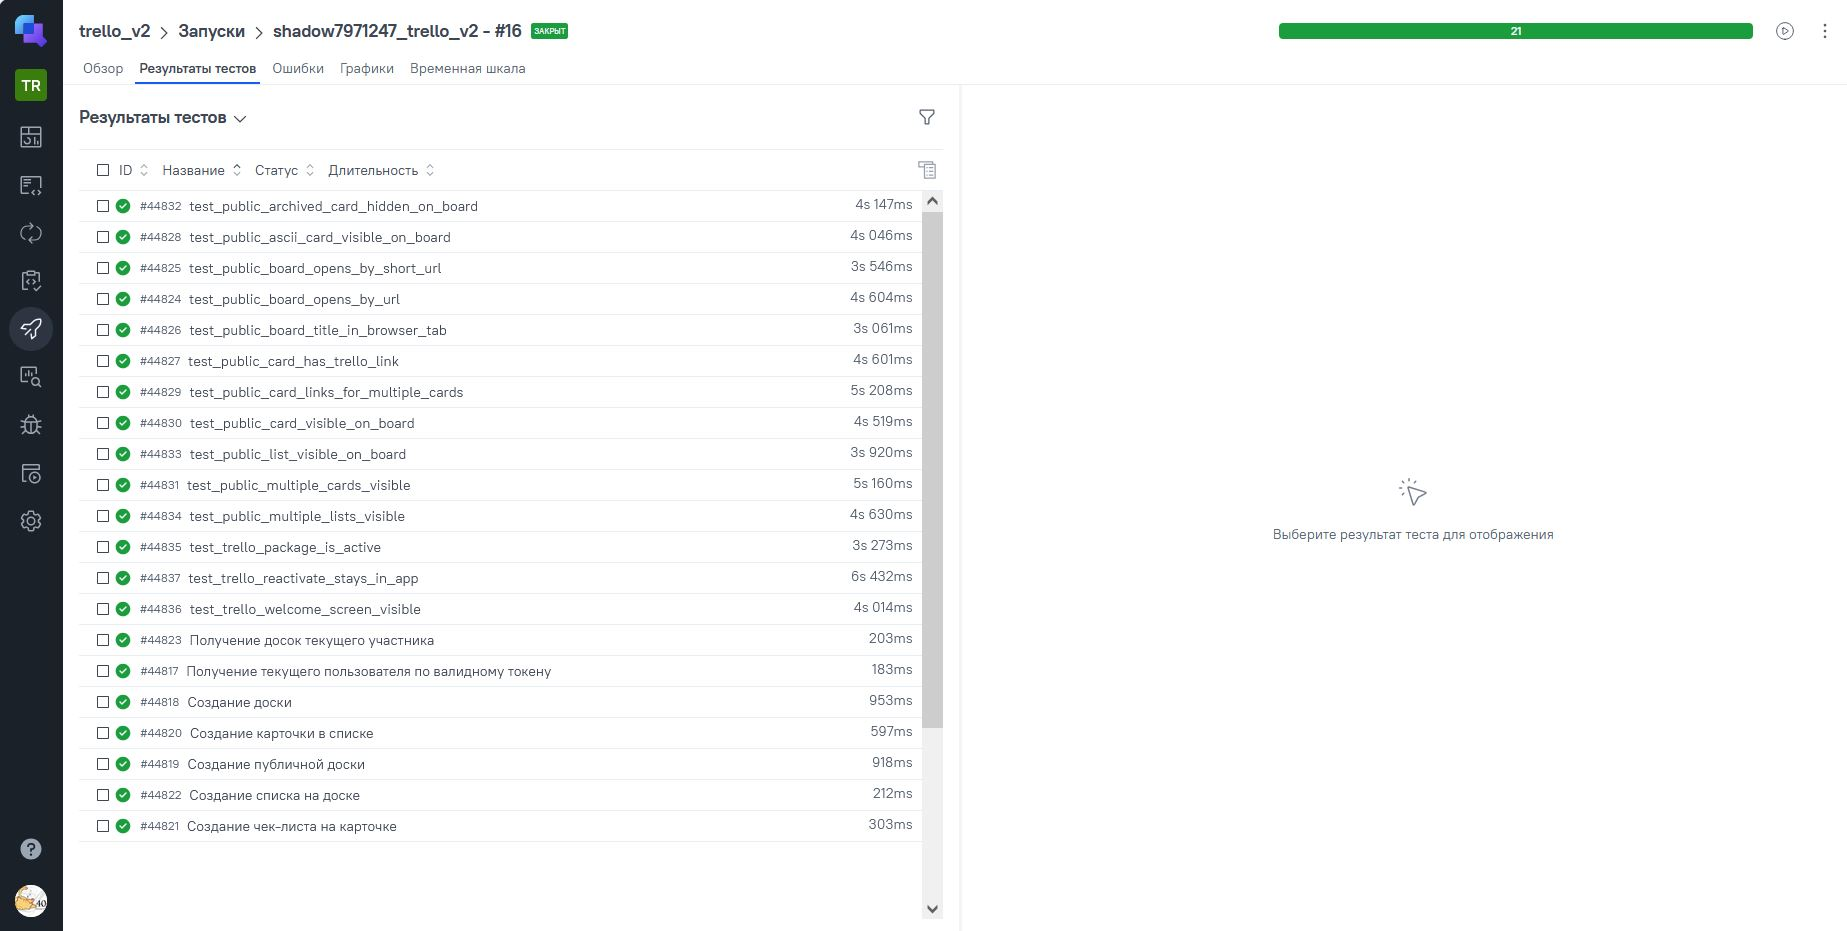
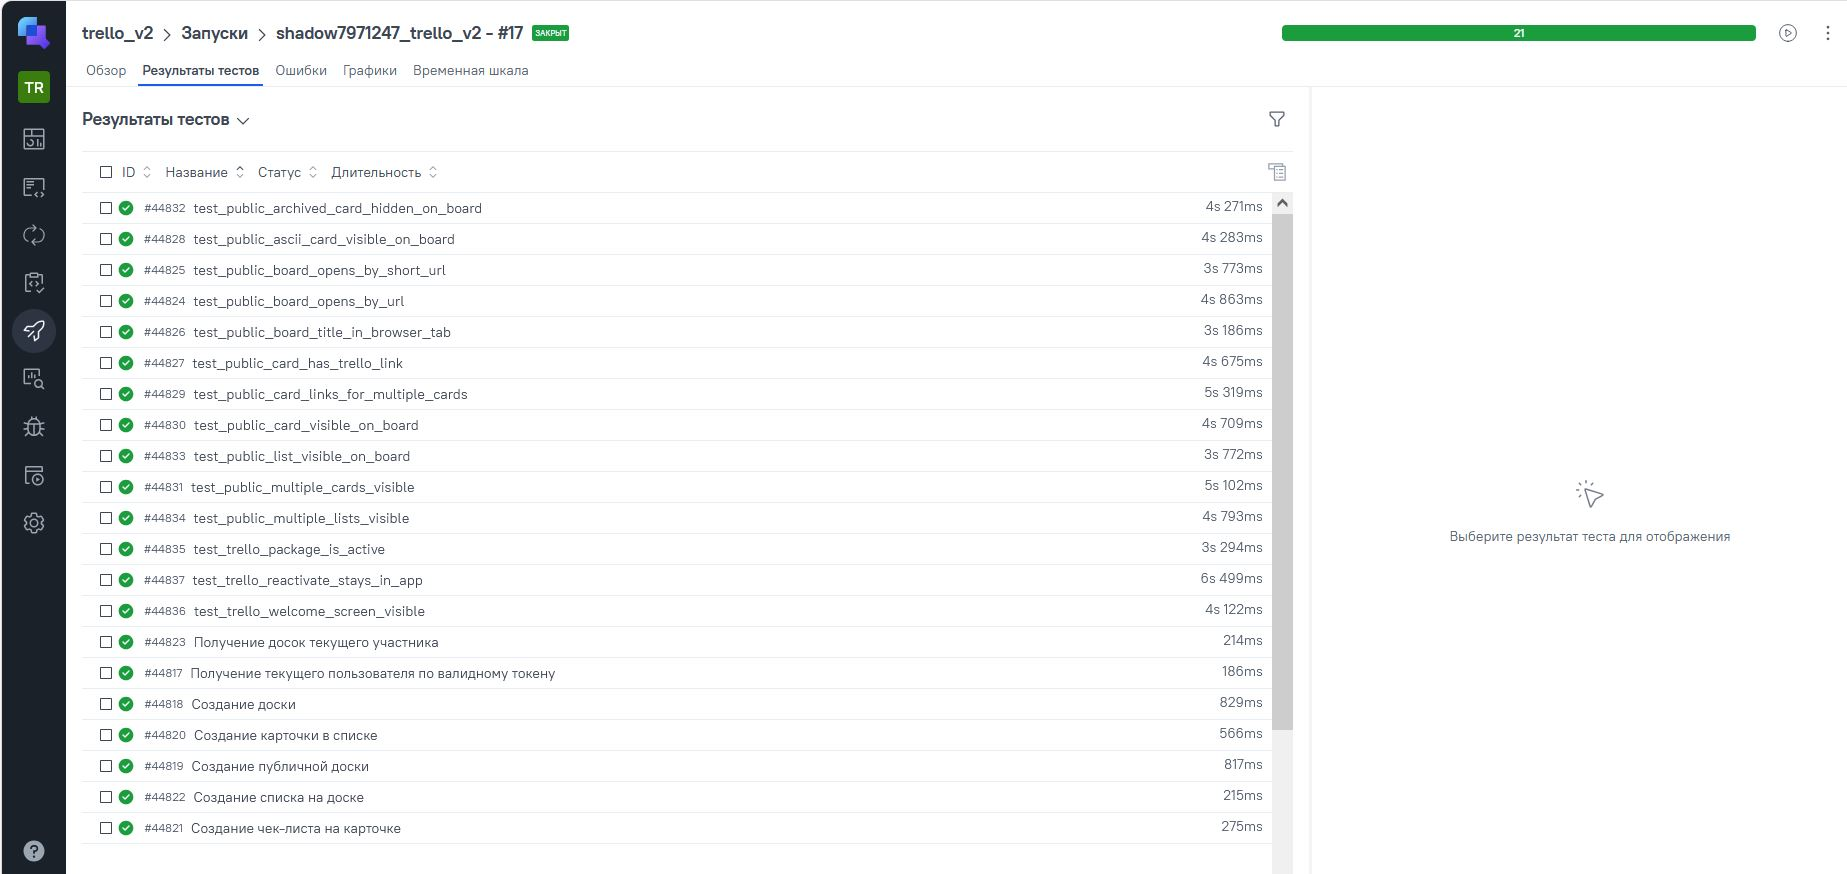
Обновить README: TestOps-скрины, ручные кейсы и ссылки Jenkins.
Добавлены дашборд и список кейсов TestOps (21 auto + 3 manual), обновлён launch #17.

diff --git a/docs/MANUAL_TESTS.md b/docs/MANUAL_TESTS.md
@@ -1,6 +1,14 @@
 # Ручные тест-кейсы
 
-Дополнение к автотестам. Кейсы можно завести в Allure TestOps (#592) и связать с автоматизацией.
+Дополнение к автотестам. В Allure TestOps (#592) заведены **3 manual test case**:
+
+| TestOps ID | Название | Статус |
+|------------|----------|--------|
+| #44838 | Вход в Trello через браузер | Активный |
+| #44839 | Создание доски через UI | Активный |
+| #44840 | Выход из аккаунта | Активный |
+
+Полный перечень сценариев ниже — часть покрыта автотестами, часть оформлена как manual в TestOps.
 
 | ID | Слой | Сценарий | Ожидание |
 |----|------|----------|----------|

diff --git a/media/README.md b/media/README.md
@@ -8,7 +8,9 @@
 |------|----------|
 | `jenkins_launch_params.jpg` | Jenkins: параметр `test_suite` (all / api / ui / mobile) перед запуском job `shadow7971247_trello_v2`. |
 | `jenkins_dashboard.jpg` | Jenkins: успешные сборки, артефакты Allure и тренд прохождения тестов. |
-| `testops_launch.jpg` | Allure TestOps: запуск #16 — 21 автотест, все passed. |
+| `testops_dashboard.jpg` | Allure TestOps: дашборд `trello_v2` — 24 кейса, 87,5% автоматизации (21 auto + 3 manual). |
+| `testops_test_cases.jpg` | Allure TestOps: список кейсов — робот (auto) и рука (manual #44838–#44840). |
+| `testops_launch.jpg` | Allure TestOps: запуск Jenkins #17 — 21 автотест, все passed. |
 | `allure_overview.jpg` | Allure Report: обзор прогона Jenkins #16 (21 passed, ~2 мин), тренд и Features by Stories. |
 | `allure_behaviours.jpg` | Allure Behaviors: дерево REST API Trello / Trello Web / Smoke с русскими feature и story. |
 

diff --git a/docs/JENKINS_FREESTYLE.md b/docs/JENKINS_FREESTYLE.md
@@ -1,5 +1,7 @@
 # Jenkins Freestyle: Trello QA + Allure Report + Allure TestOps
 
+Job: **[shadow7971247_trello_v2](https://jenkins.autotests.cloud/view/python_students/job/shadow7971247_trello_v2/)** · [Build with Parameters](https://jenkins.autotests.cloud/view/python_students/job/shadow7971247_trello_v2/build?delay=0sec)
+
 Один Freestyle job на агенте **Windows** (как на вашей машине). Репозитории GitHub: `shadow7971247/trello_api`, `trello_ui`, `trello_mobile`.
 
 Порядок прогона: **API → UI → Mobile** (API-first).